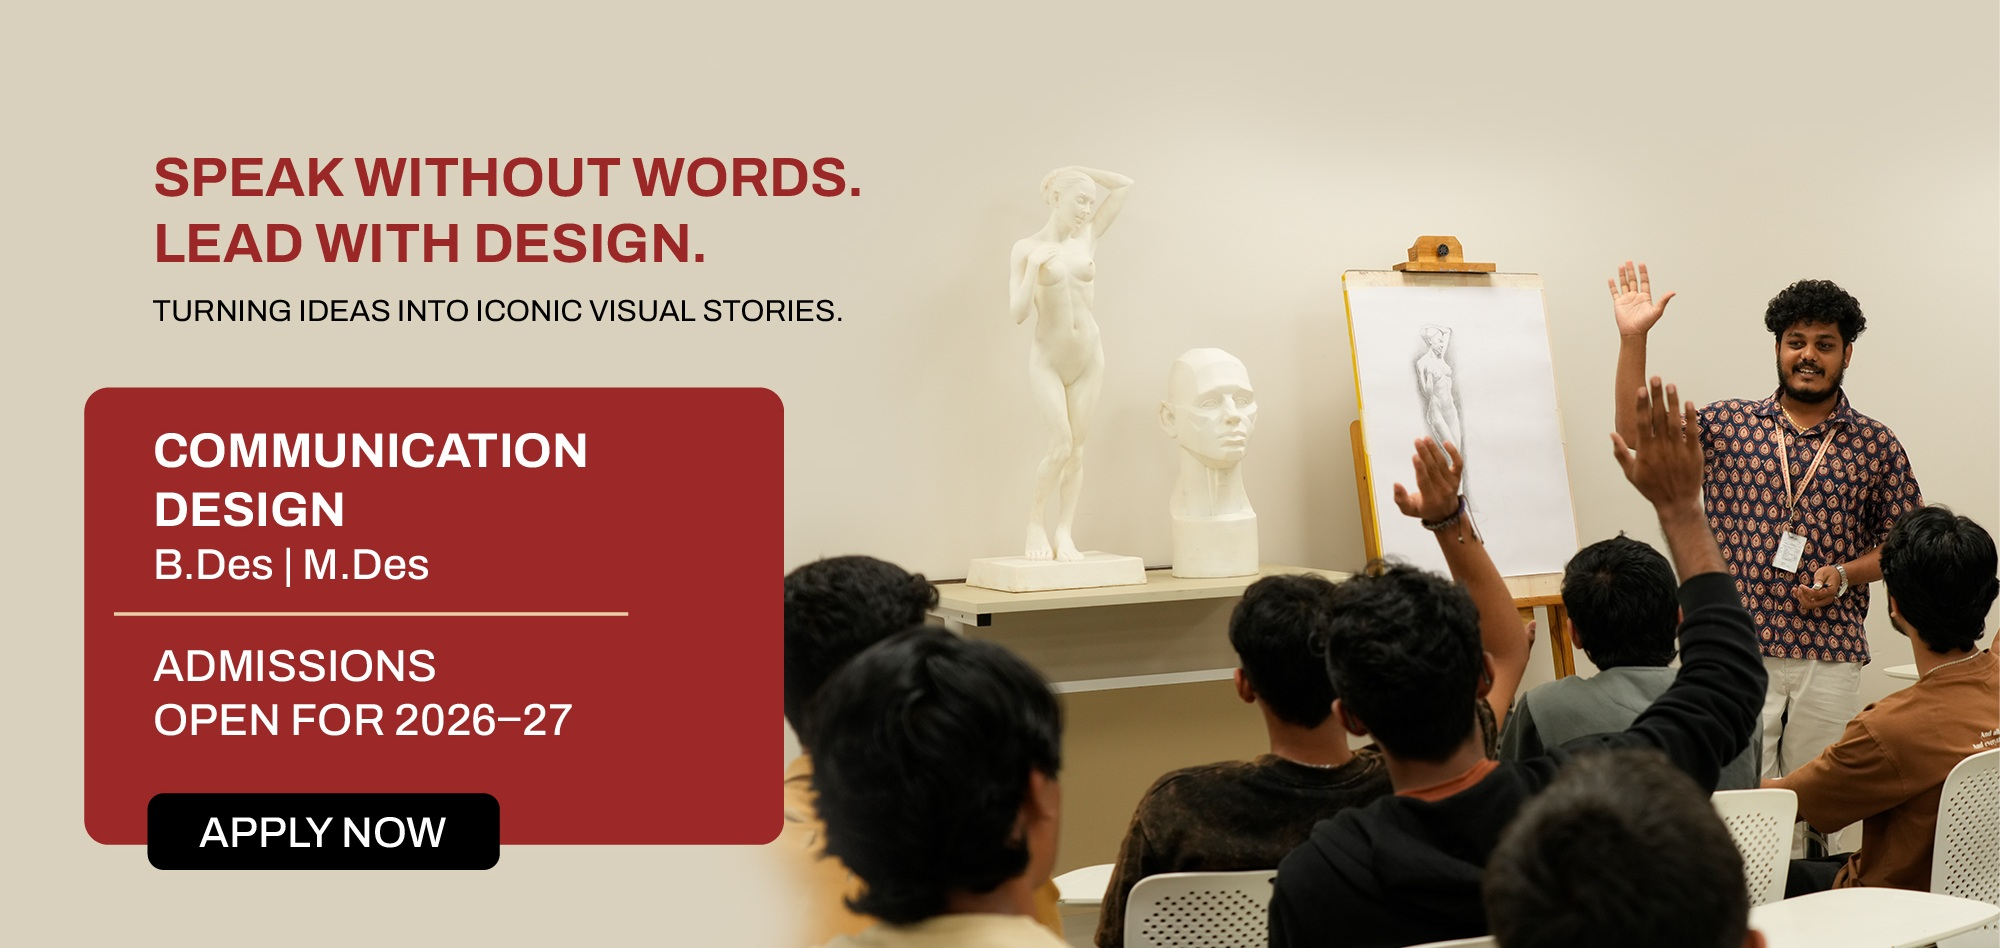
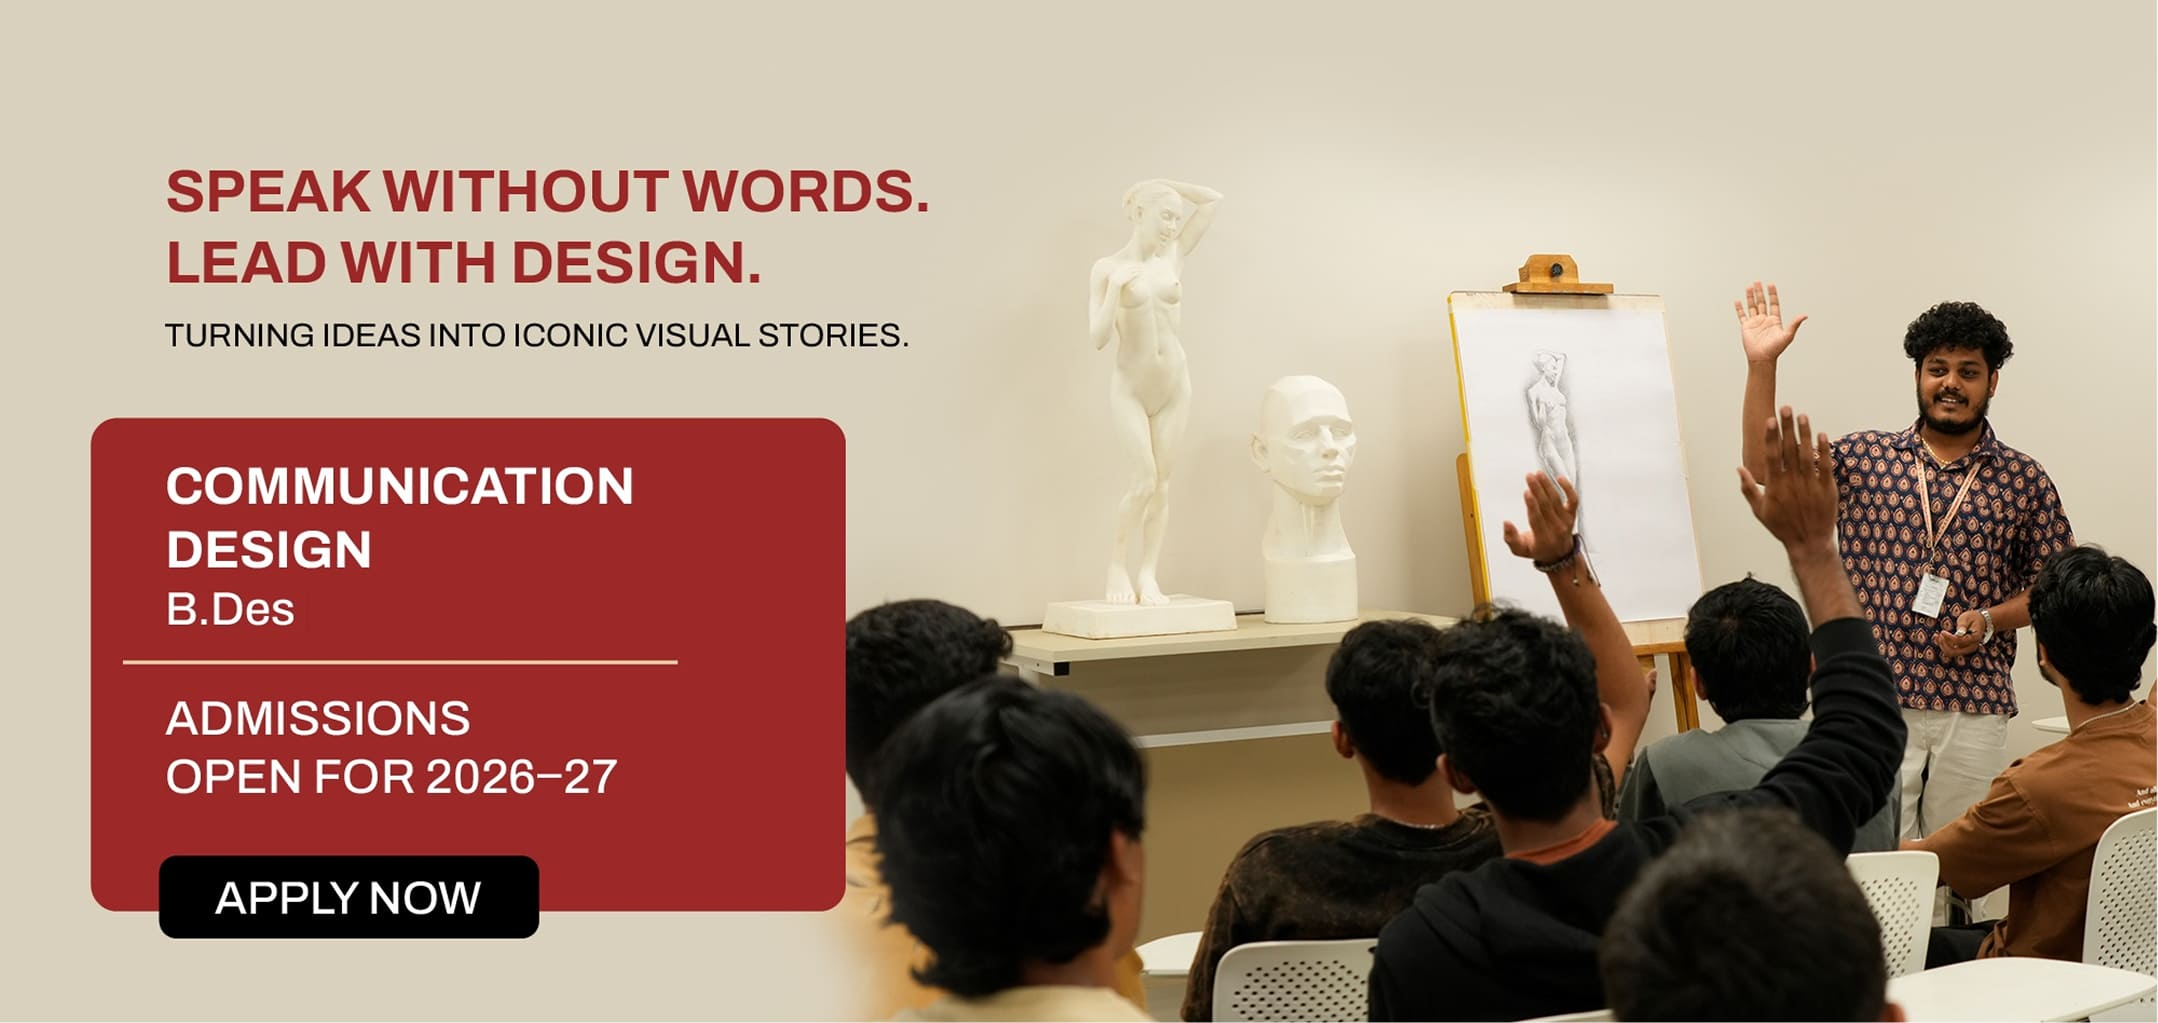
communication lp changes

diff --git a/communication/index.html b/communication/index.html
@@ -5,7 +5,7 @@
 
 <head>
     <meta charset="utf-8">
-    <title>DPU School of Design, Pune — B.Des & M.Des in Communication Design. Train under industry experts and craft
+    <title>DPU School of Design, Pune — B.Des in Communication Design. Train under industry experts and craft
         compelling visuals that communicate, influence and inspire. Apply now for 2026 admissions.</title>
     <meta content="width=device-width, initial-scale=1.0" name="viewport">
     <meta content="" name="keywords">
@@ -265,39 +265,7 @@
 
 
       <!-- Top Banner -->
-      <div class="row align-items-center banner-wrapper position-relative mt-5">
-         <div class="program-img text-end d-none d-lg-block">
-          <img class="lazyload two" src="img/programs/2.jpg">
-        </div>
-        <!-- Left Content -->
-        <div class="col-lg-7 col-12">
-          <div class="banner-left">
-            <h3>M.Des in Communication Design</h3>
-
-            <div class="row mt-4">
-              <div class="col-12 mb-3">
-                <p class="mb-4"><b>Exam Accepted :</b> CEED</p>
-                <p class="text-white"><b>Eligibility:</b> Candidates must have a Bachelor's degree in Design, Fine Arts, Architecture, Engineering, or related fields with a minimum of 45% marks for Open category and 40% marks for other categories. Freshers may also apply.</p>
-              </div>
-
-              <div class="col-12">
-                <p class="text-white"><b>Duration:</b> 2 years full-time 
-              </p>
-              </div>
-            </div>
-          </div>
-        </div>
-      </div>
-      <!-- Bottom Box -->
-      <div class="program-box mt-5">
-        <div class="row">
-          <!-- B.DES -->
-          <div class="col-lg-12 border-left-custom">
-            <h5>Program Highlights</h5>
-            <p>The M.Des in Communication Design empowers students to create meaningful and impactful visual experiences. Rooted in creativity and strategy, the program teaches learners to translate complex ideas into compelling visual narratives across diverse media. <br>Students learn to see design as a problem-solving discipline, understanding audience perception, storytelling ethics, and communication dynamics. Through real-world projects, research-based assignments, and collaborative workshops, they develop both conceptual clarity and practical mastery. <br> Key focus areas include typography, color theory, layout, imagery, motion graphics, digital media, branding, advertising, and UX-driven communication. This blend positions the program among the strong choices for aspiring professionals pursuing masters in communication design. <br>Graduates emerge ready to work in advertising, digital media, publishing, corporate branding, UI/UX design, and communication-driven roles where visual impact matters.</p>
-          </div>
-        </div>
-      </div>
+      
     </div>
   </section>        </section>
 
@@ -357,7 +325,7 @@
                         <h2 class="mb-0" style="font-size: 28px !important;">DPU SCHOOL OF DESIGN </h2>
                         <p style="font-size: 16px !important;">(Admissions Closing Soon)</p>
 
-                        <p class="mt-3">Apply for B.Des | M.Des | B.Sc (Hons.) Programs</p>
+                        <p class="mt-3">Apply for B.Des | B.Sc (Hons.) Programs</p>
                         <p class="fw-bold">Specializations Offered:</p>
                         <p>Fashion Design | Communication Design | Interior Spatial & Furniture |
 Product Design | UX Design | Animation & VFX Design